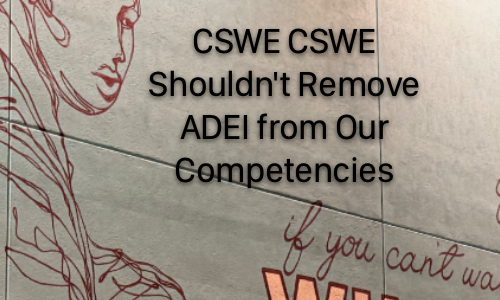
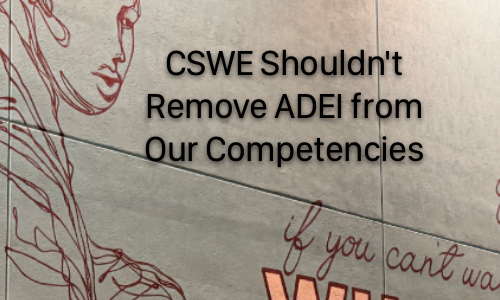
Fix to image and improvement to caption for hero image.

Changed region(s): [[0.27, 0.09, 0.87, 0.63]]

diff --git a/assets/css/foundation.css b/assets/css/foundation.css
@@ -676,10 +676,12 @@ body { overflow-x: clip; }
 .blog-band { position: relative; flex: 0 0 100vw; max-width: 100vw; width: 100vw; margin-left: calc(50% - 50vw); margin-top: -1rem; color: #fff; background: #000 center / cover no-repeat; }
 .blog-band::before { content: ""; position: absolute; inset: 0; background: rgba(0, 0, 0, .5); }
 .blog-band > .container { position: relative; padding-top: 4rem; padding-bottom: 4rem; }
-/* Caption sits in its own right-aligned block at the bottom of the band. It is
-   pulled up into the container's 4rem bottom padding, so short captions keep the
-   band's height while long ones push it taller instead of overlapping the excerpt. */
-.blog-band-caption { position: relative; display: block; max-width: min(26rem, calc(100% - 1.5rem)); margin: -3rem .75rem 0 auto; padding-bottom: .5rem; font-size: .75rem; line-height: 1.35; text-align: right; color: rgba(255, 255, 255, .75); }
+/* Caption sits in its own right-aligned block at the bottom of the band. It sizes
+   to its text and only wraps once it passes 40rem (about 100 characters), so most
+   captions stay on one line. It is pulled up into the container's 4rem bottom
+   padding, so short captions keep the band's height while long ones push it
+   taller instead of overlapping the excerpt. */
+.blog-band-caption { position: relative; display: block; width: fit-content; max-width: min(40rem, calc(100% - 1.5rem)); margin: -3rem .75rem 0 auto; padding-bottom: .5rem; font-size: .75rem; line-height: 1.35; text-align: right; color: rgba(255, 255, 255, .75); }
 .blog-band-caption a { color: inherit; }
 .post-card-img { aspect-ratio: 5 / 3; object-fit: cover; }
 .post-card-img-featured { aspect-ratio: 8 / 3; object-fit: cover; }
